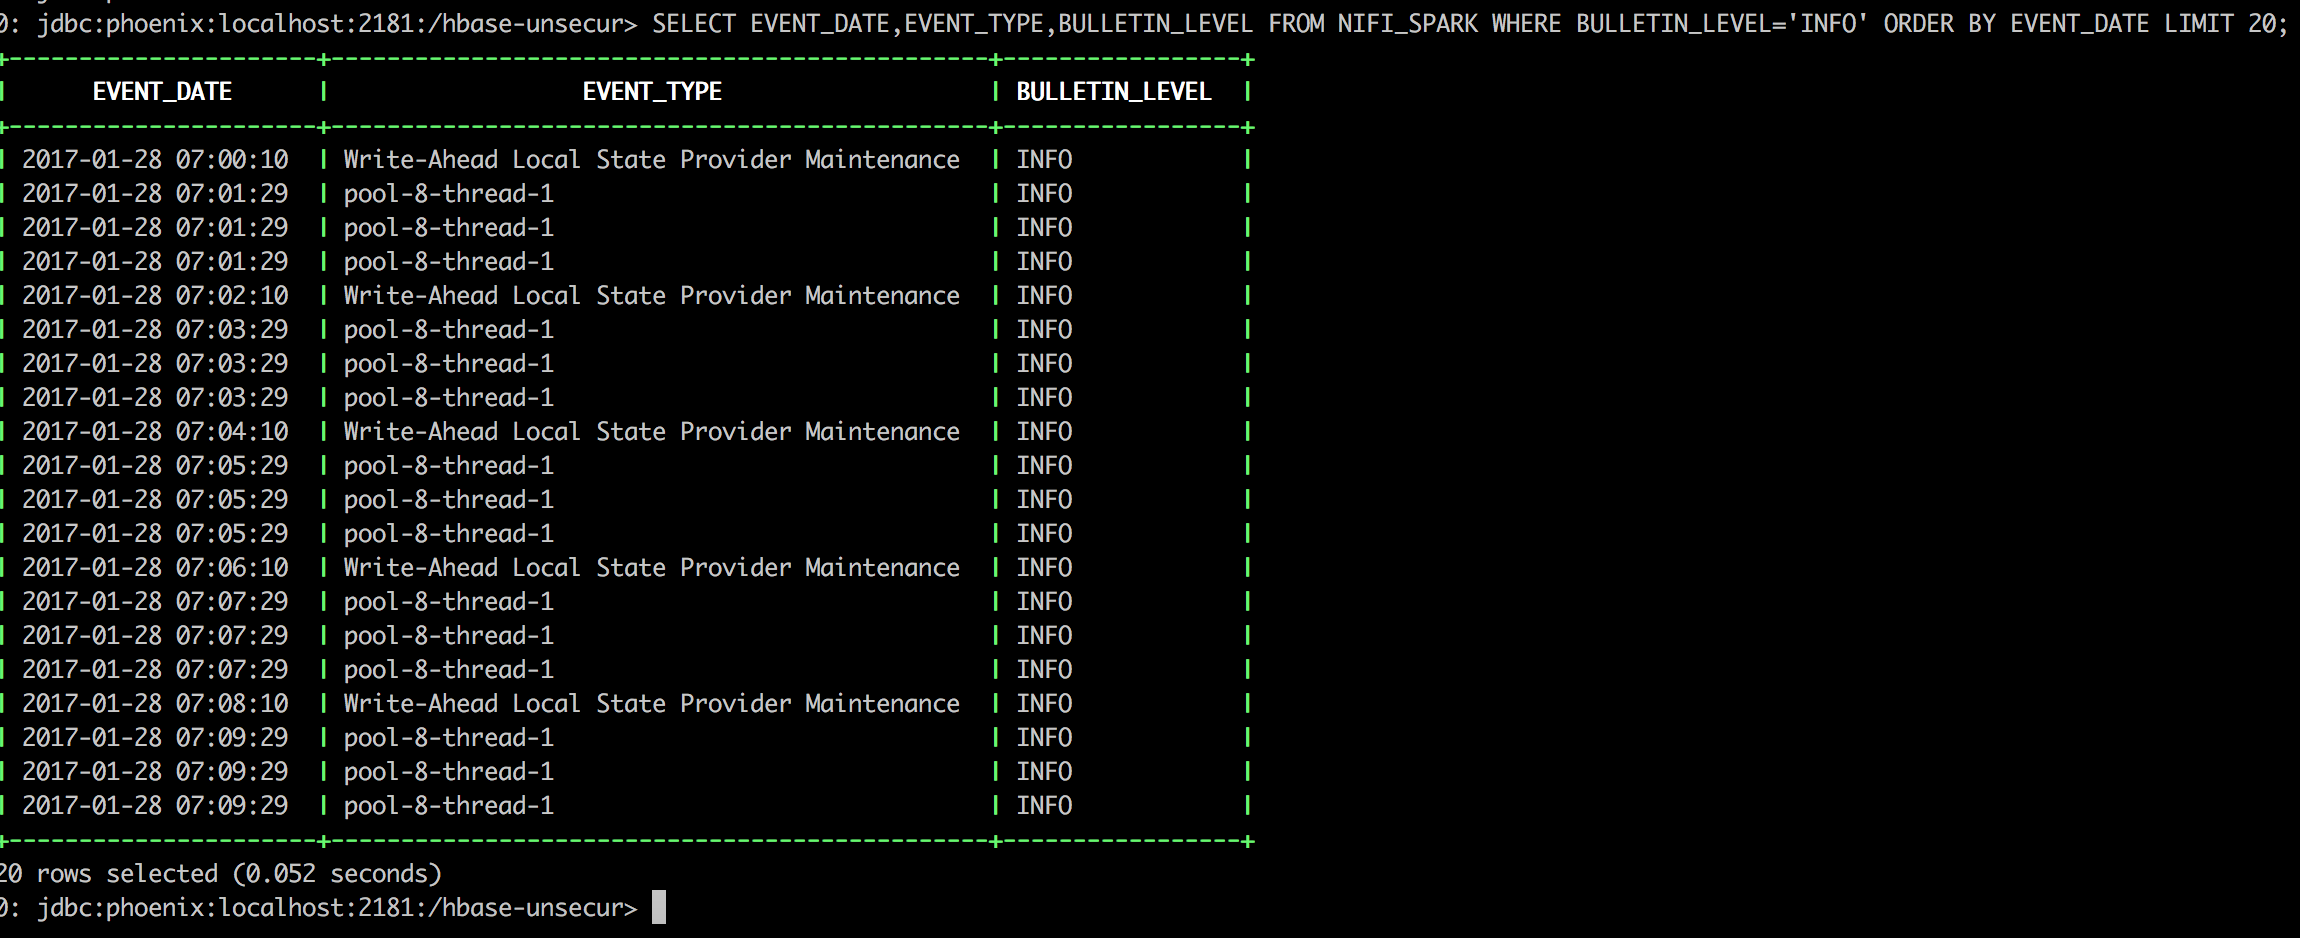
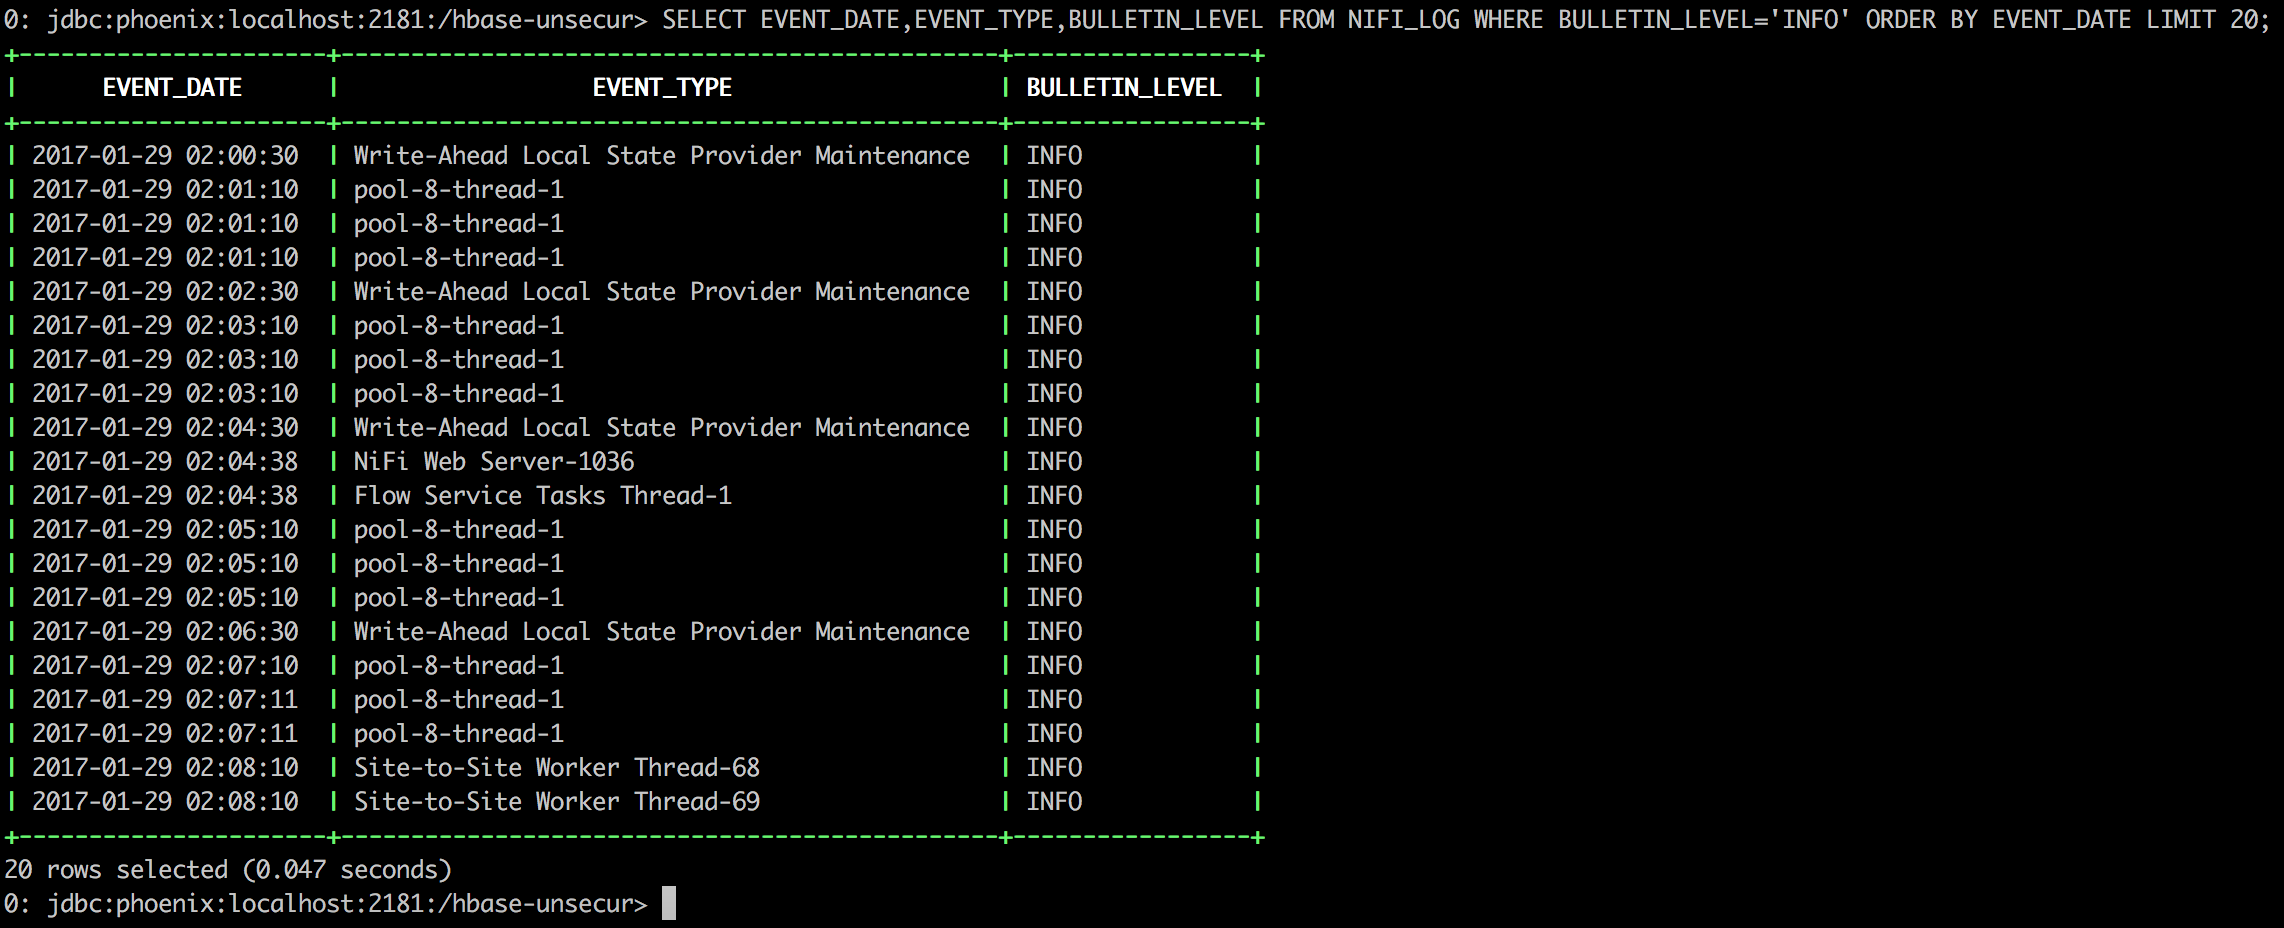
Final Commit
Final Commit

Changed region(s): [[0.0, 0.0, 0.9947, 1.0]]

diff --git a/README.md b/README.md
@@ -163,11 +163,16 @@ http://your-vm-ip:9090/nifi/
 
 ```
 
-3) Now let us go ahead and submit the Spark Application via spark-shell
+3) Now let us go ahead and submit the Spark Application to YARN or can run locally via spark-shell
 
 ```
 # spark-shell --master yarn --deploy-mode client -i /opt/NiFi-Spark-Feeding-Data-to-Spark-Streaming/src/main/Spark+NiFi+Phoenix.sh
+
+OR 
+
+# spark-shell -i /opt/NiFi-Spark-Feeding-Data-to-Spark-Streaming/src/main/Spark+NiFi+Phoenix.sh
 ```
+
 ![alt tag](https://github.com/jobinthompu/NiFi-Spark-Feeding-Data-to-Spark-Streaming/blob/master/resources/images/Spark-Shell.jpg)
 
 4) Make sure the application is submitted and it prints out statistics. 
@@ -179,6 +184,13 @@ YARN UI: http://your-vm-ip:8088
 ```
 ![alt tag](https://github.com/jobinthompu/NiFi-Spark-Feeding-Data-to-Spark-Streaming/blob/master/resources/images/YARN-UI.jpg)
 
+Or if you Submit the application locally you can verify that by accessing spark shell application UI:
+
+```
+http://sandbox.hortonworks.com:4040/executors/
+```
+![alt tag](https://github.com/jobinthompu/NiFi-Spark-Feeding-Data-to-Spark-Streaming/blob/master/resources/images/Spark-UI.jpg)
+
 6) Lets Go back to the NiFi Web UI, if everything worked fine, the data which was pending on the port 'spark' will be gone as it was consumed by Spark.
 
 7) Now Lets Connect to Phoenix and check out the data populated in tables, you can either use Phoenix sqlline command line or Zeppelin 
@@ -188,7 +200,7 @@ YARN UI: http://your-vm-ip:8088
 ```
 # /usr/hdp/current/phoenix-client/bin/sqlline.py localhost:2181:/hbase-unsecure 
 
-SELECT EVENT_DATE,EVENT_TYPE,BULLETIN_LEVEL FROM NIFI_SPARK WHERE BULLETIN_LEVEL='INFO' ORDER BY EVENT_DATE LIMIT 20;
+SELECT EVENT_DATE,EVENT_TYPE,BULLETIN_LEVEL FROM NIFI_LOG WHERE BULLETIN_LEVEL='INFO' ORDER BY EVENT_DATE LIMIT 20;
 ```
 
 ![alt tag](https://github.com/jobinthompu/NiFi-Spark-Feeding-Data-to-Spark-Streaming/blob/master/resources/images/sqlline.jpg)
